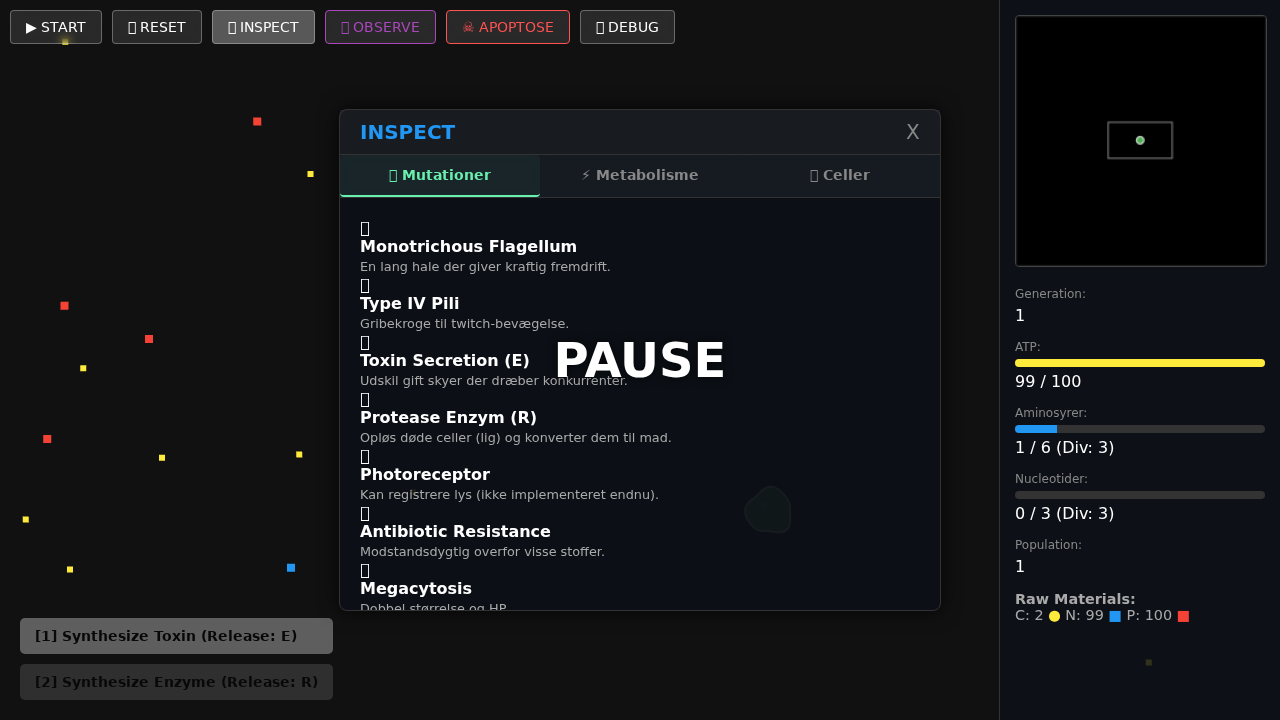
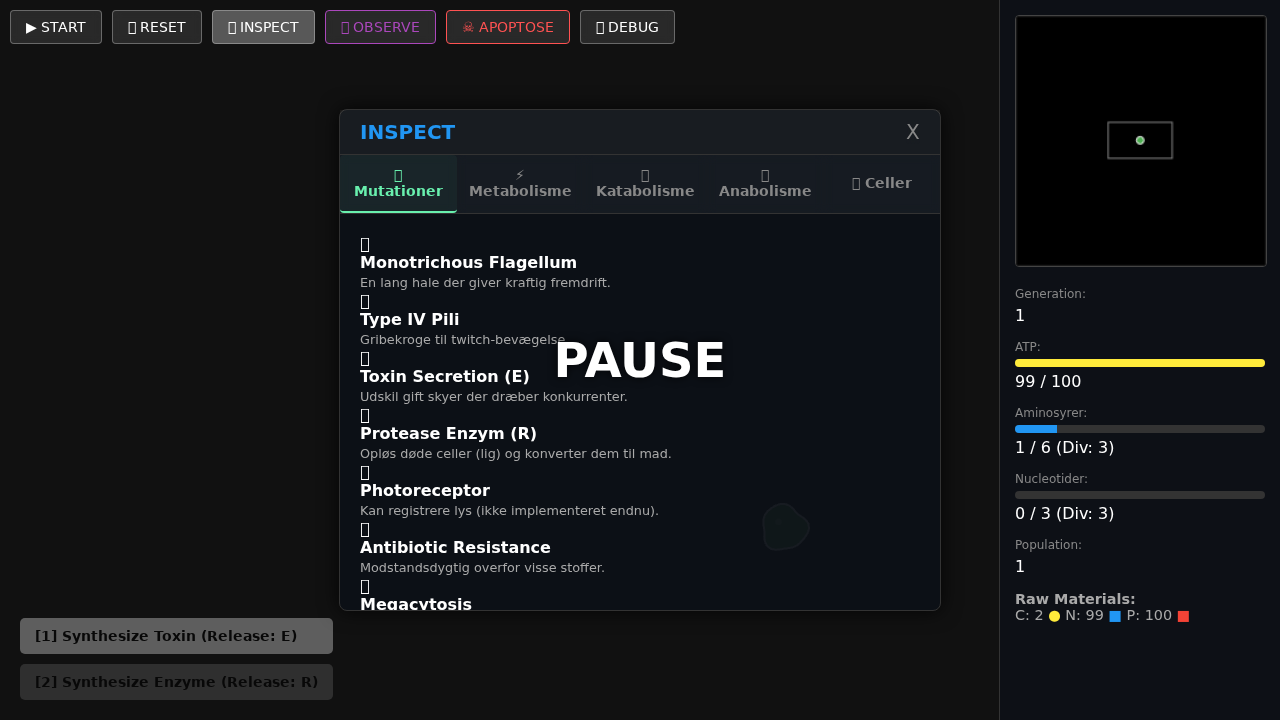
Add Inspector Modal tabs to HTML for Catabolism and Anabolism

Changed region(s): [[0.2812, 0.3361, 0.5312, 0.8556], [0.25, 0.2139, 0.7188, 0.3056]]

diff --git a/index.html b/index.html
@@ -41,6 +41,8 @@
         <div class="modal-tabs">
             <button class="modal-tab-btn active" data-tab="tabMutations">🧬 Mutationer</button>
             <button class="modal-tab-btn" data-tab="tabMetabolism">⚡ Metabolisme</button>
+            <button class="modal-tab-btn" data-tab="tabKatabolisme">📉 Katabolisme</button>
+            <button class="modal-tab-btn" data-tab="tabAnabolisme">📈 Anabolisme</button>
             <button class="modal-tab-btn" data-tab="tabCells">🦠 Celler</button>
         </div>
 
@@ -57,7 +59,17 @@
                 </div>
             </div>
 
-            <!-- TAB 3: CELLER -->
+            <!-- TAB 3: KATABOLISME -->
+            <div id="tabKatabolisme" class="modal-tab-content">
+                <div id="katabolismeContainer"></div>
+            </div>
+
+            <!-- TAB 4: ANABOLISME -->
+            <div id="tabAnabolisme" class="modal-tab-content">
+                <div id="anabolismeContainer"></div>
+            </div>
+
+            <!-- TAB 5: CELLER -->
             <div id="tabCells" class="modal-tab-content">
                 <div id="cellListContainer">
                     <!-- Liste af celler genereres her -->
